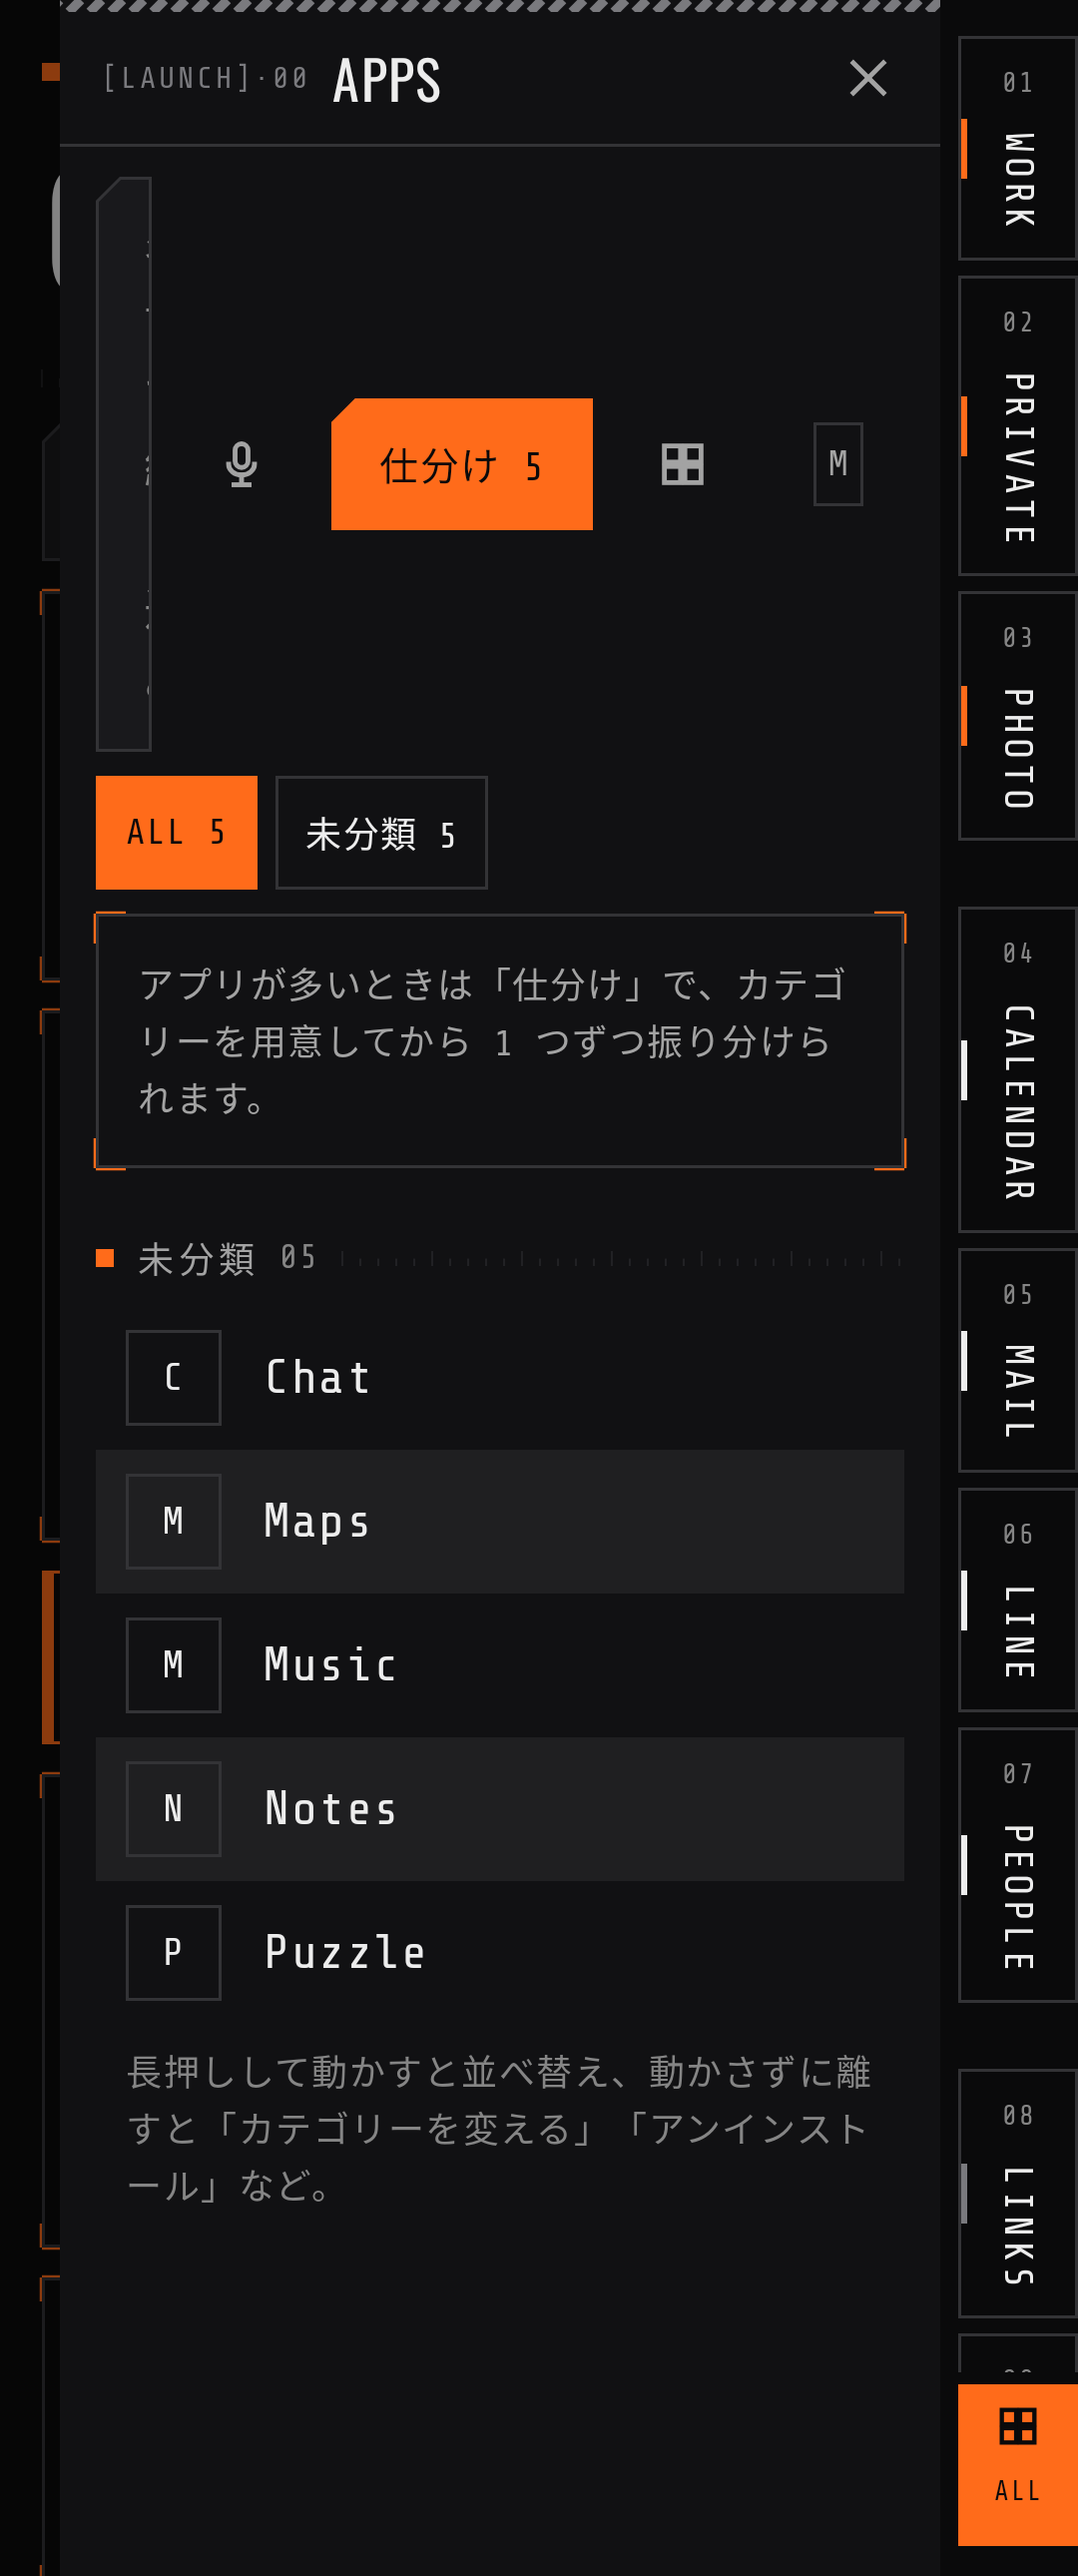
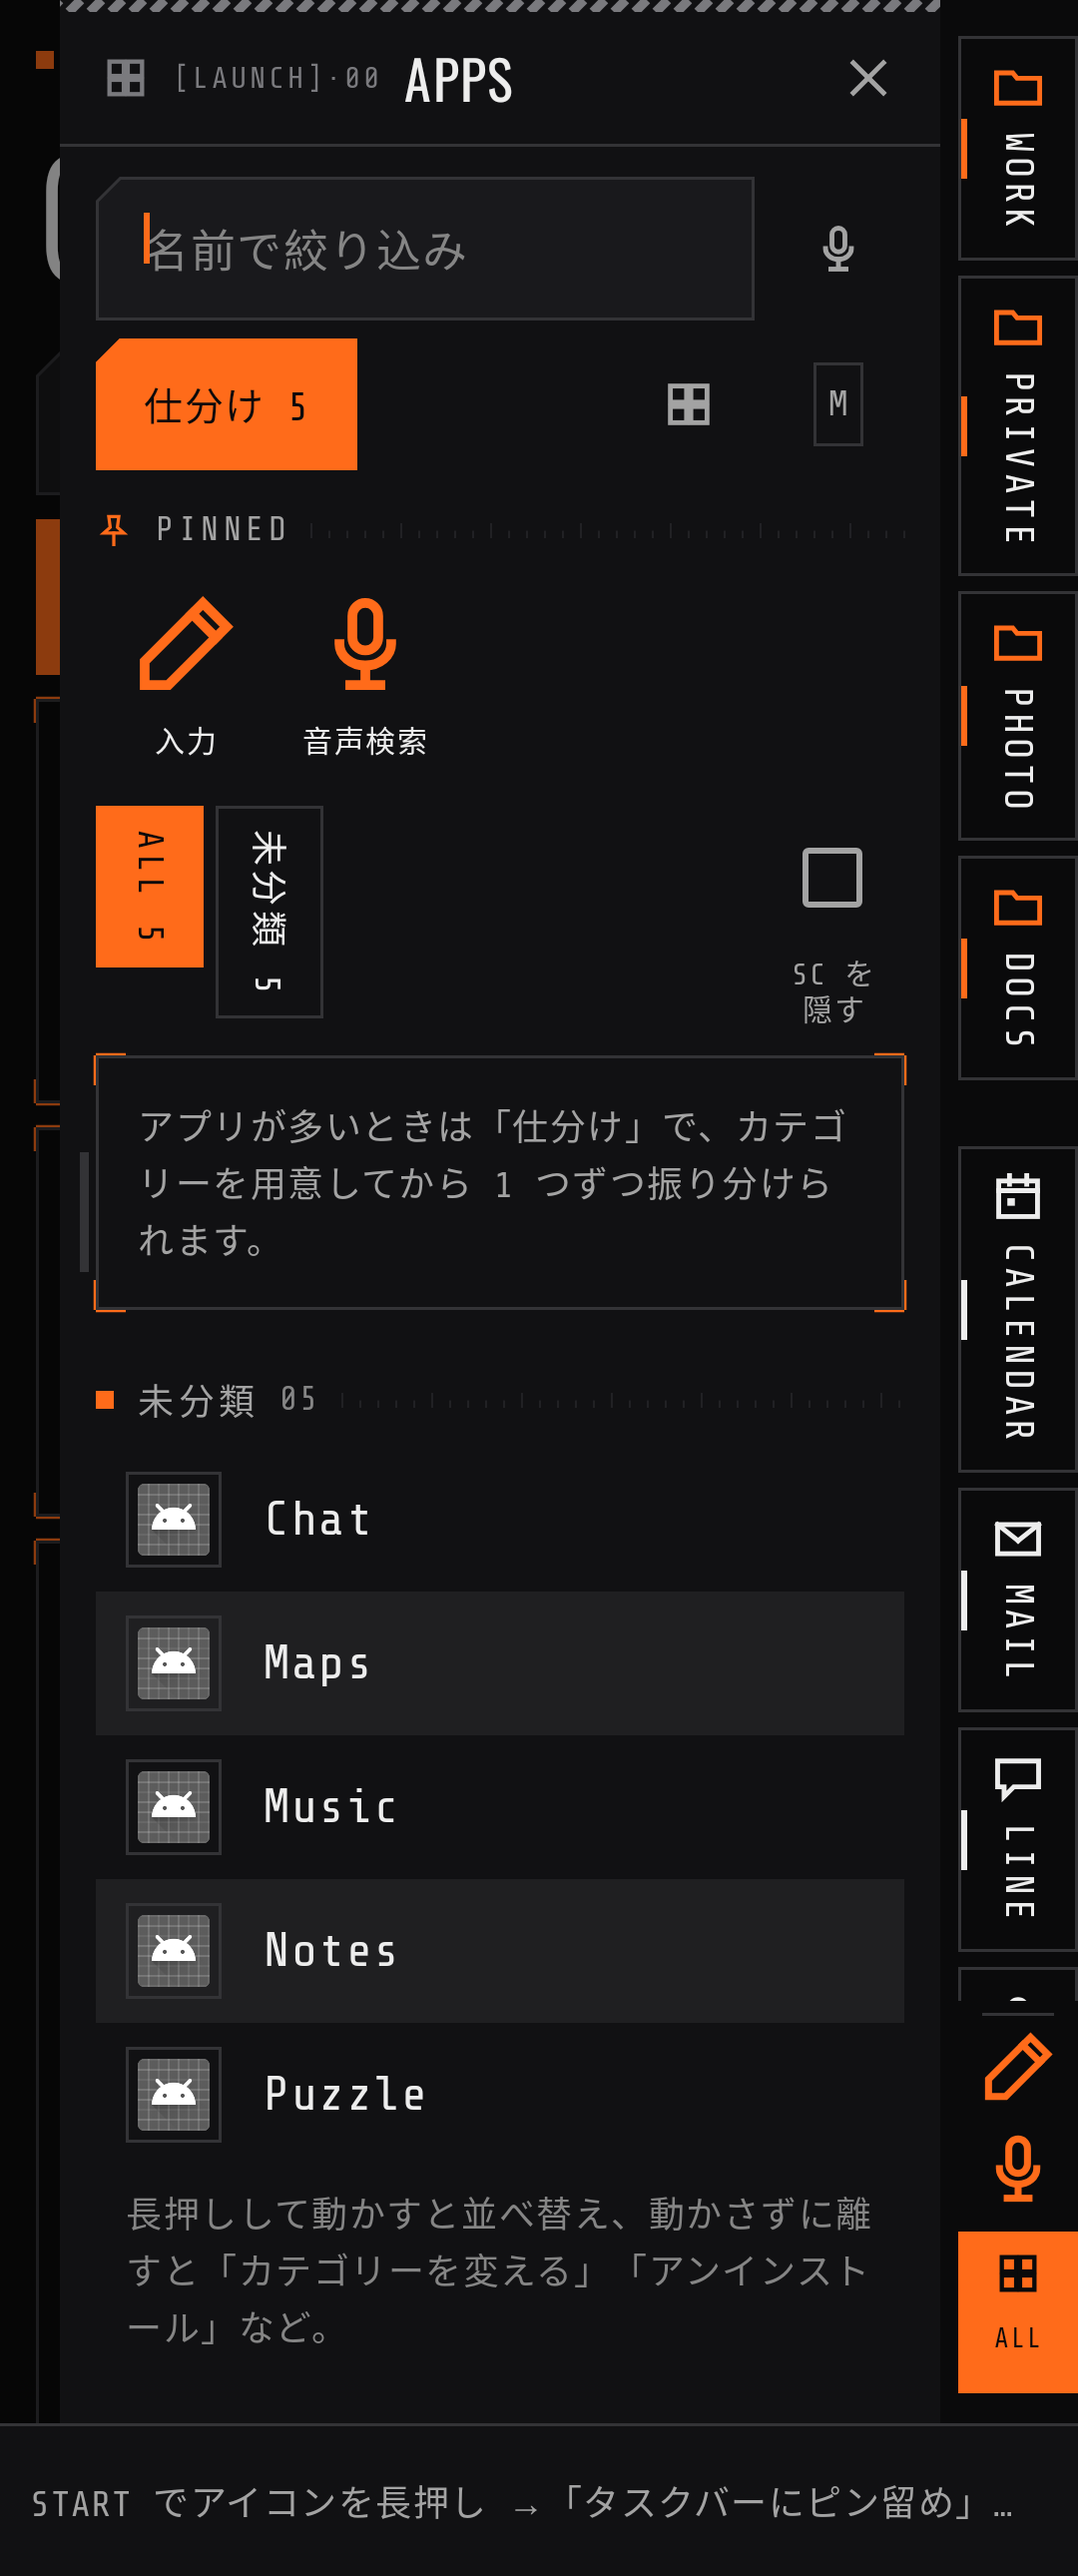
1.14.0: START のカテゴリーの札を縦長にして横スクロール、ショートカットを隠す
Claude-Session: https://claude.ai/code/session_01GMSgoGarRChJJQLGtjAFKY

diff --git a/app/src/main/java/app/thetahatch/home/ui/Drawers.kt b/app/src/main/java/app/thetahatch/home/ui/Drawers.kt
@@ -775,7 +775,9 @@ private fun AppsDrawer(model: HomeModel, only: String? = null, split: Boolean = 
         .filter { (id, _) -> filter == null || filter == id }
         .map { (id, name) -> Triple(id, name, model.ordered(id, visible.filter { (model.appCategories[it.key] ?: "") == id || id == "" && model.categoryOf(it) == null }.distinct())) }
         .filter { g -> g.third.isNotEmpty() || model.shortcuts.any { it.catId == g.first } }
-    val shortcutsOf = { catId: String -> model.shortcuts.filter { it.catId == catId && (q.isBlank() || it.label.contains(q, ignoreCase = true)) } }
+    // START（すべてのアプリ）で「ショートカットを隠す」なら出さない（カテゴリーのタブはそのまま）
+    val hideSc = only == null && model.appsHideShortcuts
+    val shortcutsOf = { catId: String -> if (hideSc) emptyList() else model.shortcuts.filter { it.catId == catId && (q.isBlank() || it.label.contains(q, ignoreCase = true)) } }
     var scMenu by remember { mutableStateOf<String?>(null) }
     var scRenaming by remember { mutableStateOf<PinnedShortcut?>(null) }
     var shortcutsFor by remember { mutableStateOf<Pair<AppEntry, String>?>(null) }
@@ -948,19 +950,30 @@ private fun AppsDrawer(model: HomeModel, only: String? = null, split: Boolean = 
             Note("このタブのカテゴリーは消されました。タブを長押しして外してください。")
         }
         if (only == null) item {
-            FlowRow(Modifier.padding(bottom = 8.dp), horizontalArrangement = Arrangement.spacedBy(6.dp), verticalArrangement = Arrangement.spacedBy(6.dp)) {
-                @Composable
-                fun chip(label: String, id: String?) {
-                    val on = filter == id
-                    Text(
-                        label, color = if (on) p.onAccent else p.fg, fontSize = 12.sp,
-                        modifier = Modifier.background(if (on) p.accent else Color.Transparent).border(1.dp, if (on) p.accent else p.line)
-                            .clickable { filter = if (on && id != null) null else id }.padding(horizontal = 10.dp, vertical = 7.dp),
-                    )
+            // カテゴリーの札：文字を 90 度倒した細い札を横に並べ、入りきらなければ横にスクロール（場所を取らないように）
+            Row(Modifier.padding(bottom = 8.dp), verticalAlignment = Alignment.Top) {
+                Row(Modifier.weight(1f).horizontalScroll(rememberScrollState()), horizontalArrangement = Arrangement.spacedBy(4.dp), verticalAlignment = Alignment.Top) {
+                    @Composable
+                    fun chip(label: String, id: String?) {
+                        val on = filter == id
+                        Box(
+                            Modifier.background(if (on) p.accent else Color.Transparent).border(1.dp, if (on) p.accent else p.line)
+                                .clickable(onClickLabel = "${label}で絞り込む") { filter = if (on && id != null) null else id }
+                                .padding(horizontal = 6.dp, vertical = 8.dp),
+                        ) { VerticalLabel(label, if (on) p.onAccent else p.fg, 12) }
+                    }
+                    chip("ALL %d".format(model.apps.size), null)
+                    model.categories.forEach { c -> chip("${c.name} ${model.appCategories.count { it.value == c.id }}", c.id) }
+                    if (unsorted > 0) chip("未分類 $unsorted", "")
                 }
-                chip("ALL %d".format(model.apps.size), null)
-                model.categories.forEach { c -> chip("${c.name} ${model.appCategories.count { it.value == c.id }}", c.id) }
-                if (unsorted > 0) chip("未分類 $unsorted", "")
+                // 札の右に、ショートカットを隠すチェック（縦に詰めて）
+                Column(
+                    Modifier.padding(start = 6.dp).clickable(onClickLabel = "ショートカットを隠す・出す") { model.changeAppsHideShortcuts(!model.appsHideShortcuts) },
+                    horizontalAlignment = Alignment.CenterHorizontally,
+                ) {
+                    androidx.compose.material3.Checkbox(checked = model.appsHideShortcuts, onCheckedChange = { model.changeAppsHideShortcuts(it) })
+                    Text("SC を\n隠す", color = p.muted, fontSize = 10.sp, lineHeight = 12.sp, textAlign = androidx.compose.ui.text.style.TextAlign.Center)
+                }
             }
         }
         if (only == null && model.categories.isEmpty()) {

diff --git a/docs/index.html b/docs/index.html
@@ -177,7 +177,7 @@ footer { margin-top:80px; border-top:1px solid var(--line); padding:24px 0 40px;
       <p class="lead">背景はファイラー、画面の端にタブ。<br>アイコンを並べない、計器盤（HUD）のようなホームアプリ。</p>
       <div class="ticks"></div>
       <div style="margin:16px 0">
-        <span class="readout"><span class="label">VERSION</span><b id="ver">1.13.2</b></span>
+        <span class="readout"><span class="label">VERSION</span><b id="ver">1.14.0</b></span>
         <span class="readout"><span class="label">ANDROID</span><b>10+</b></span>
         <span class="readout alert"><span class="label">STATUS</span><b>BETA</b></span>
       </div>

diff --git a/app/src/main/java/app/thetahatch/home/HomeModel.kt b/app/src/main/java/app/thetahatch/home/HomeModel.kt
@@ -177,6 +177,10 @@ class HomeModel(app: Application) : AndroidViewModel(app) {
     var noticeOrder by mutableStateOf(store.noticeOrder); private set
     fun changeNoticeOrder(v: String) { noticeOrder = v; store.noticeOrder = v }
 
+    /** START（すべてのアプリ）でショートカットを隠す。 */
+    var appsHideShortcuts by mutableStateOf(store.prefs.getBoolean("appsHideShortcuts", false)); private set
+    fun changeAppsHideShortcuts(v: Boolean) { appsHideShortcuts = v; store.prefs.edit().putBoolean("appsHideShortcuts", v).apply() }
+
     /** アプリの呼び名（声で開く・検索）。 */
     var nicknames by mutableStateOf(store.nicknames); private set
 

diff --git a/README.md b/README.md
@@ -8,7 +8,7 @@
 スマホはアプリには行きやすいのにファイルには行きにくいので、PC のデスクトップのように「ファイルの置き場」をホームにする。ただ散らかして置くのではなく、ファイラーとして置く。
 
 - **ダウンロード：[Releases](https://github.com/kiwiman0706-beep/Theta.Home.Hatch/releases)**（`ThetaHomeHatch-<版>.apk`）
-- 版：**1.13.2（versionCode 232）**／package `app.thetahatch.home`（0.42 までは `jp.yaegaki.theta.home`）／Android 10（API 29）以上
+- 版：**1.14.0（versionCode 240）**／package `app.thetahatch.home`（0.42 までは `jp.yaegaki.theta.home`）／Android 10（API 29）以上
 - [Theta Hatch シリーズ](https://github.com/kiwiman0706-beep/Theta.Hatch.Series)の 1 つ。シリーズの**更新のハブ・設定のハブ**を兼ねる（下の「Hatch シリーズのハブ」）
 - 対象：Galaxy Z Fold5（カバー・メイン）、Alldocube iPlay 60 / 80 Pro 系、Unihertz Titan 2（物理キーボード）
 - **実機での確認はまだです。** 画面は JVM 上で描いて確かめています（[`docs/screenshots/`](docs/screenshots)）。

diff --git a/CHANGELOG.md b/CHANGELOG.md
@@ -1,5 +1,10 @@
 # 変更履歴
 
+## 1.14.0（2026-11-12）
+
+- **START のカテゴリーの札を細く**：文字を 90 度倒した縦長の札を横に並べ、入りきらなければ横にスクロール（今までは何段にも折り返していた）
+- **ショートカットを隠す**：札の右のチェックで、START に出す LINE のトークなどのショートカットを隠す（カテゴリーのタブはそのまま）
+
 ## 1.13.2（2026-11-12）
 
 - 端の下の ✎（入力）・「入力」のショートカット・エッジからの入力も、MemoHatch があれば MemoHatch で始める（1.13.0 ではすぐ記録のボタンだけだった）。声は MemoHatch の声のメモ

diff --git a/docs/release-notes/v1.14.0.md b/docs/release-notes/v1.14.0.md
@@ -1,0 +1,4 @@
+# Theta Home Hatch 1.14.0
+
+- START（すべてのアプリ）のカテゴリーの札を細くしました。文字を 90 度倒した縦長の札を横に並べ、入りきらないときは横にスクロールします（今までは何段にも折り返していました）
+- 札の右に「SC を隠す」のチェックを置きました。オンにすると、START に出していたショートカット（LINE のトークなど）を隠します。カテゴリーのタブには今まで通り出ます
